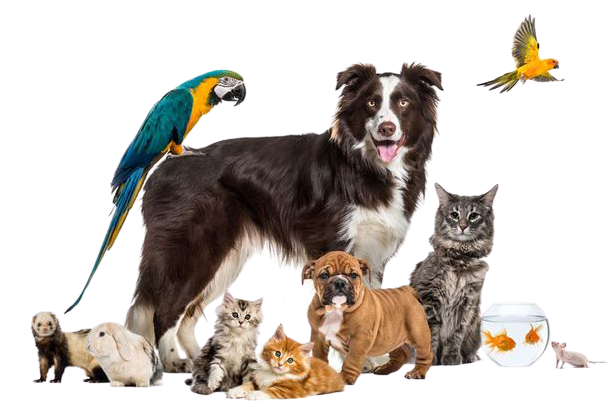
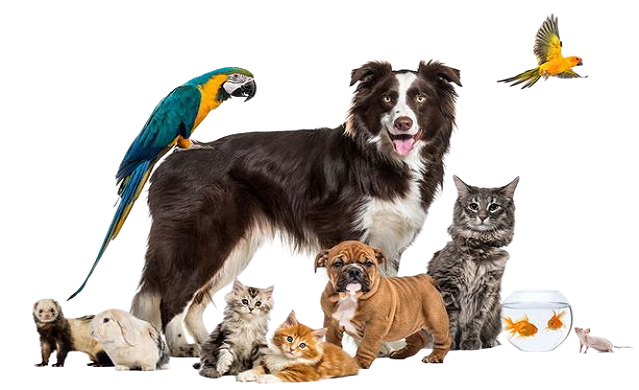
Added the Imager Slider

diff --git a/index.html b/index.html
@@ -60,20 +60,35 @@
       <!--Title-->
       <div class="row">
           
-        <div class="col-lg-5">
+        <div class="col-lg-6">
           <h1 style="font-size: 3.5rem;">Welcome to Petsworld!!!</h1>
           <h5 style="margin-left: .05em ;">Know Your Pets Easily.</h5>
           <button type="button" class="btn btn-light btn-lg download-btn"><i class="fab fa-apple"></i>Download</button>
           <button type="button" class="btn btn-warning btn-lg download-btn"><i class="fab fa-google-play"></i>Download</button>
         </div>
 
-        <div class="col-lg-5">
-          <img class="title-image" width="700" height="440" src="photo/2.png" alt="pet photo">
+        <div id="carouselExampleSlidesOnly" class="carousel slide col-lg-6" data-bs-ride="carousel" data-bs-interval="3000">
+          <div class="carousel-inner">
+            <div class="carousel-item active">
+              <img src="photo/2.png" class="d-block w-100" width="700" height="400" alt="slide-image 1">
+            </div>
+            <div class="carousel-item">
+              <img src="photo/1.png" class="d-block w-100" width="700" height="400" alt="slide-image 2">
+            </div>
+            <div class="carousel-item">
+              <img src="photo/6.png" class="d-block w-100" width="700" height="400" alt="slide-image 2">
+            </div>
+            <div class="carousel-item">
+              <img src="photo/7.png" class="d-block w-100" width="700" height="400" alt="slide-image 2">
+            </div>
+            <div class="carousel-item">
+              <img src="photo/8.png" class="d-block w-100" width="700" height="400" alt="slide-image 2">
+            </div>
+          </div>
         </div>
 
       </div>
     </div>
-
   </section>
 
   <!--Features-->
